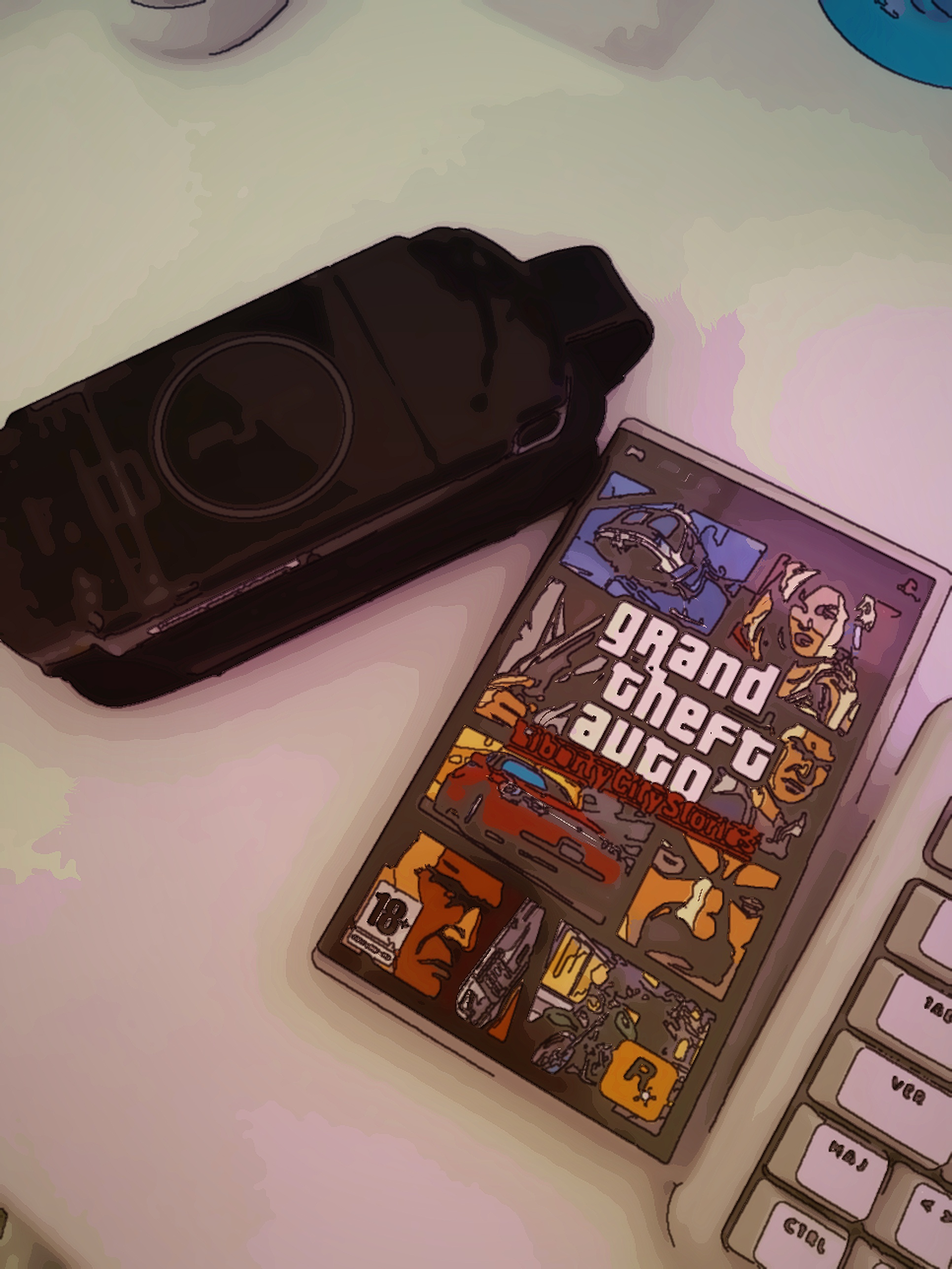
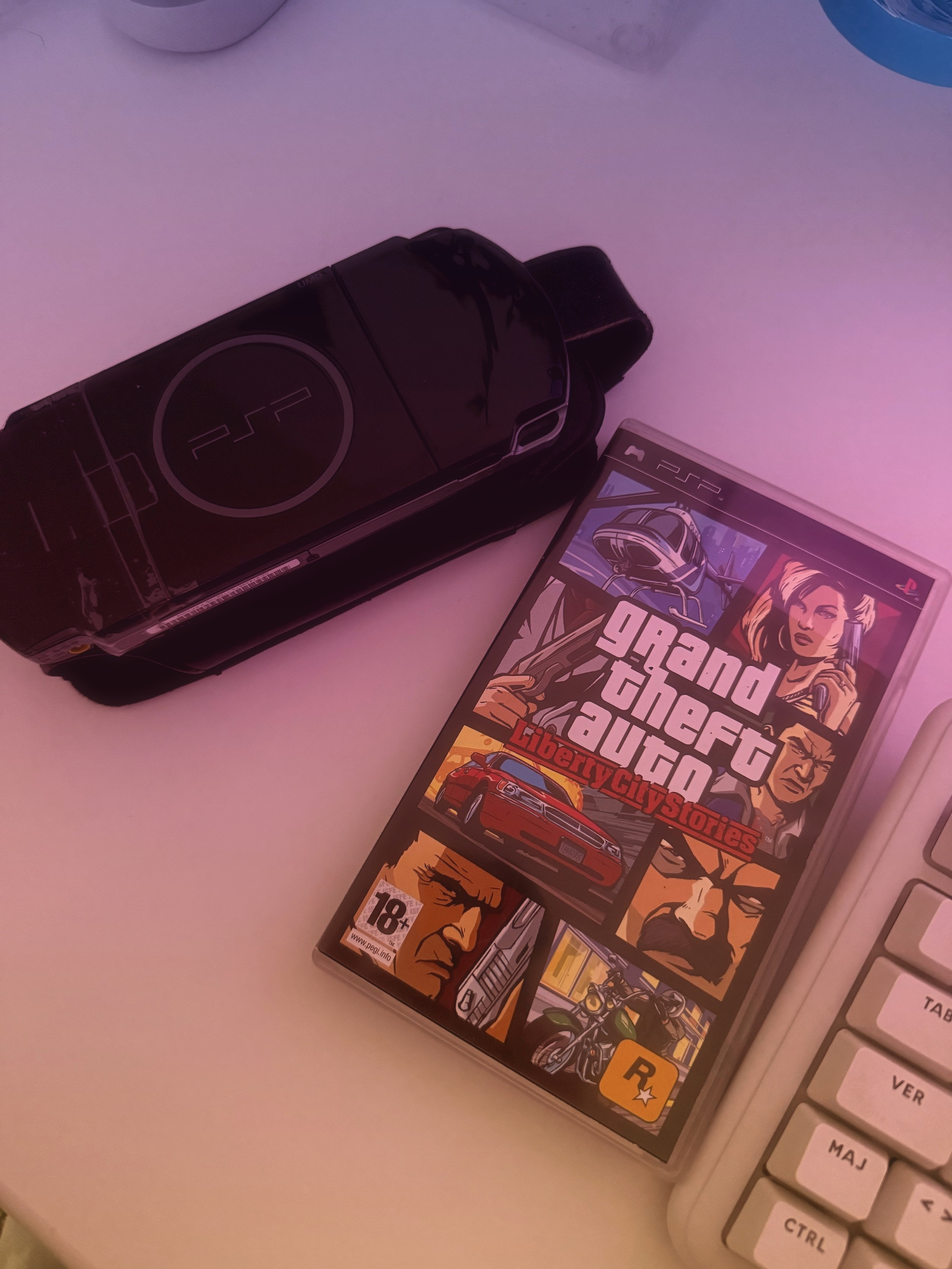
GTA VI gradient colour filter tool; PSP photo with gradient filter
Claude-Session: https://claude.ai/code/session_01HzsHj1ajzU12w9biQgwm1w

diff --git a/promo/tools/gta_gradient.py b/promo/tools/gta_gradient.py
@@ -1,0 +1,34 @@
+"""GTA VI colour filter: photo kept as is, graded with the sunset gradient (violet top -> pink -> orange bottom).
+Usage: python3 -I gta_gradient.py <in> <out> [strength 0..1]"""
+import sys
+import numpy as np
+from PIL import Image, ImageEnhance, ImageFilter
+
+src, out = sys.argv[1], sys.argv[2]
+k = float(sys.argv[3]) if len(sys.argv) > 3 else 0.6
+
+im = Image.open(src).convert("RGB")
+im = ImageEnhance.Contrast(im).enhance(1.06)
+a = np.asarray(im).astype(np.float32) / 255.0
+h, w = a.shape[:2]
+
+# vertical GTA VI gradient (RGB)
+stops = [(0.0, (110, 70, 190)), (0.45, (240, 100, 170)), (1.0, (255, 170, 95))]
+y = np.linspace(0, 1, h)
+grad = np.zeros((h, 3), np.float32)
+for c in range(3):
+    grad[:, c] = np.interp(y, [s[0] for s in stops], [s[1][c] for s in stops]) / 255.0
+b = np.broadcast_to(grad[:, None, :], a.shape)
+
+# soft-light blend (keeps the photo readable) + a touch of screen for the glow
+soft = np.where(b < 0.5, 2 * a * b + a * a * (1 - 2 * b), 2 * a * (1 - b) + np.sqrt(a) * (2 * b - 1))
+screen = 1 - (1 - a) * (1 - b)
+tint = np.clip(a * (0.3 + 0.85 * b) + 0.06 * b, 0, 1)  # colour the highlights (white table -> sunset)
+res = a * (1 - k) + (tint * 0.6 + soft * 0.3 + screen * 0.1) * k
+
+img = Image.fromarray((np.clip(res, 0, 1) * 255).astype(np.uint8))
+img = ImageEnhance.Color(img).enhance(1.15)
+# soft dreamy glow
+glow = img.filter(ImageFilter.GaussianBlur(18))
+img = Image.blend(img, Image.fromarray(np.maximum(np.asarray(img), np.asarray(glow))), 0.25)
+img.save(out, quality=95)
